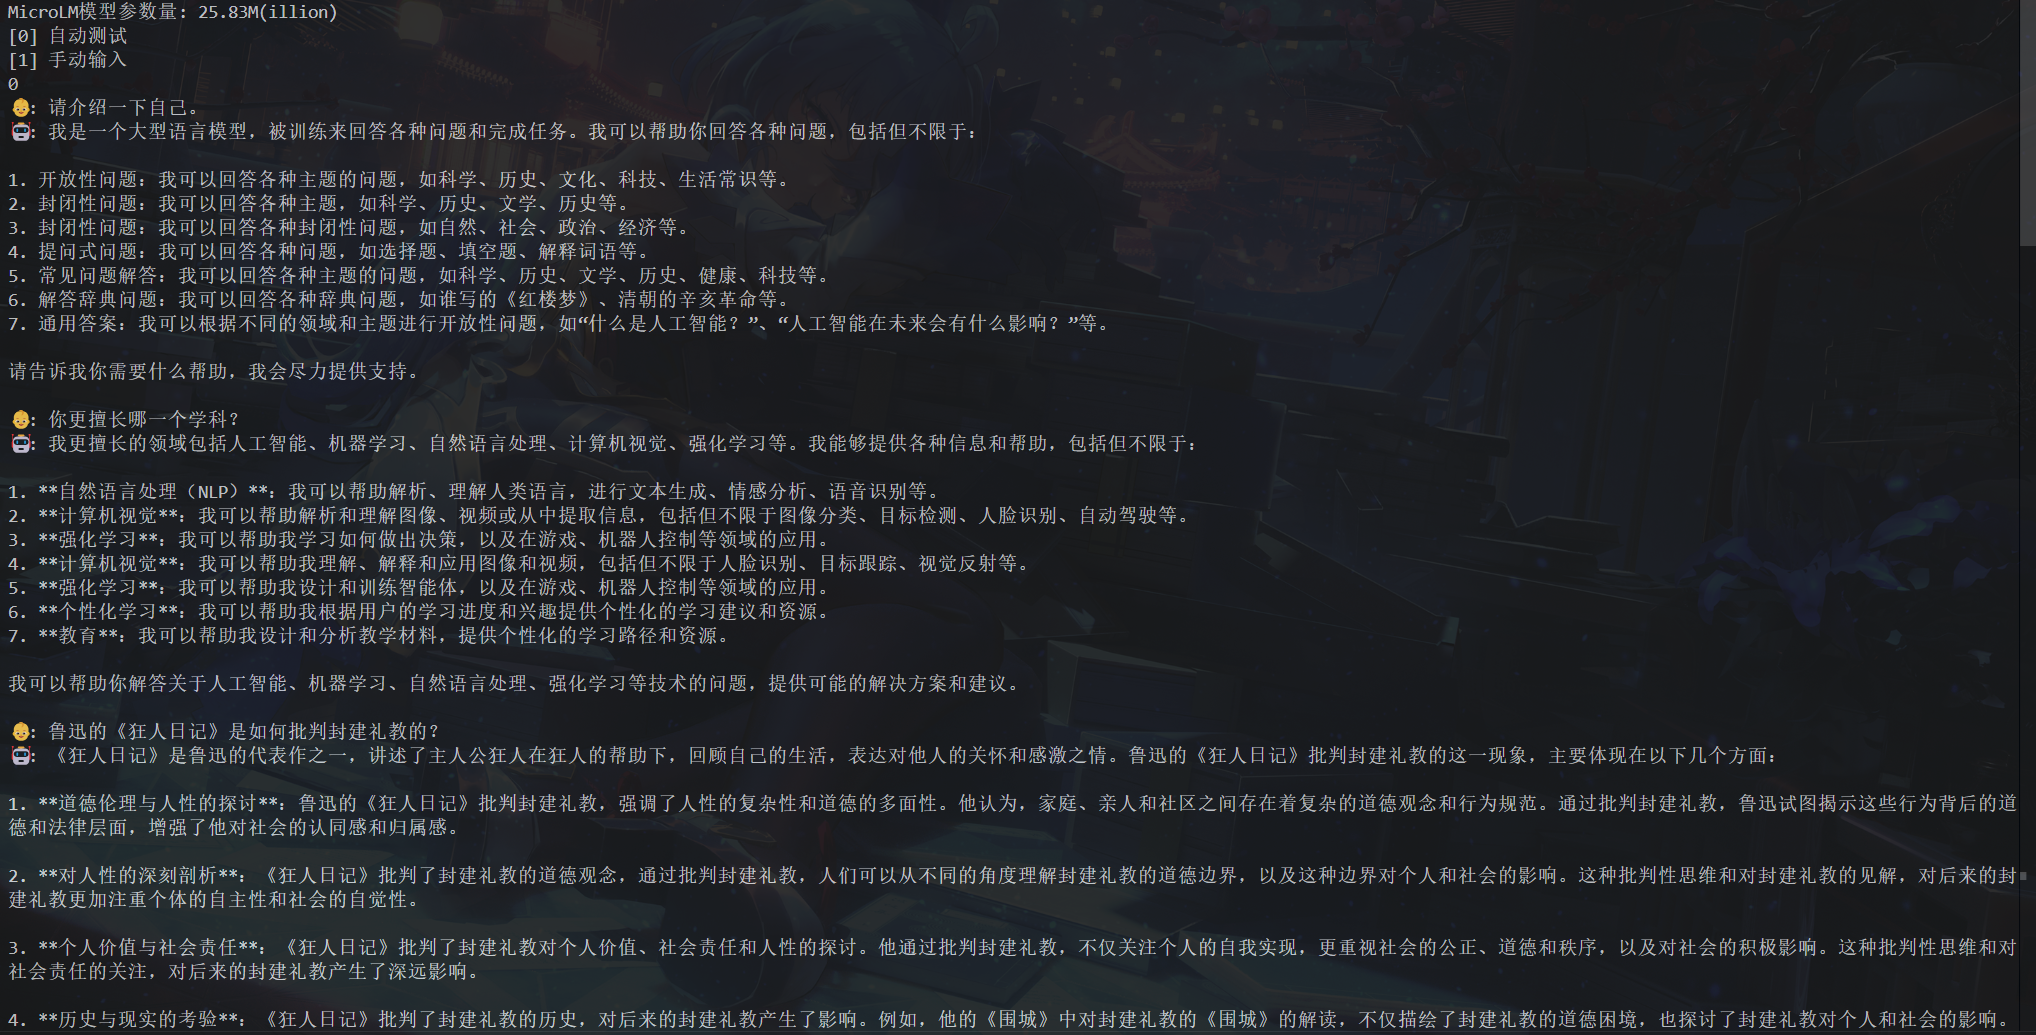
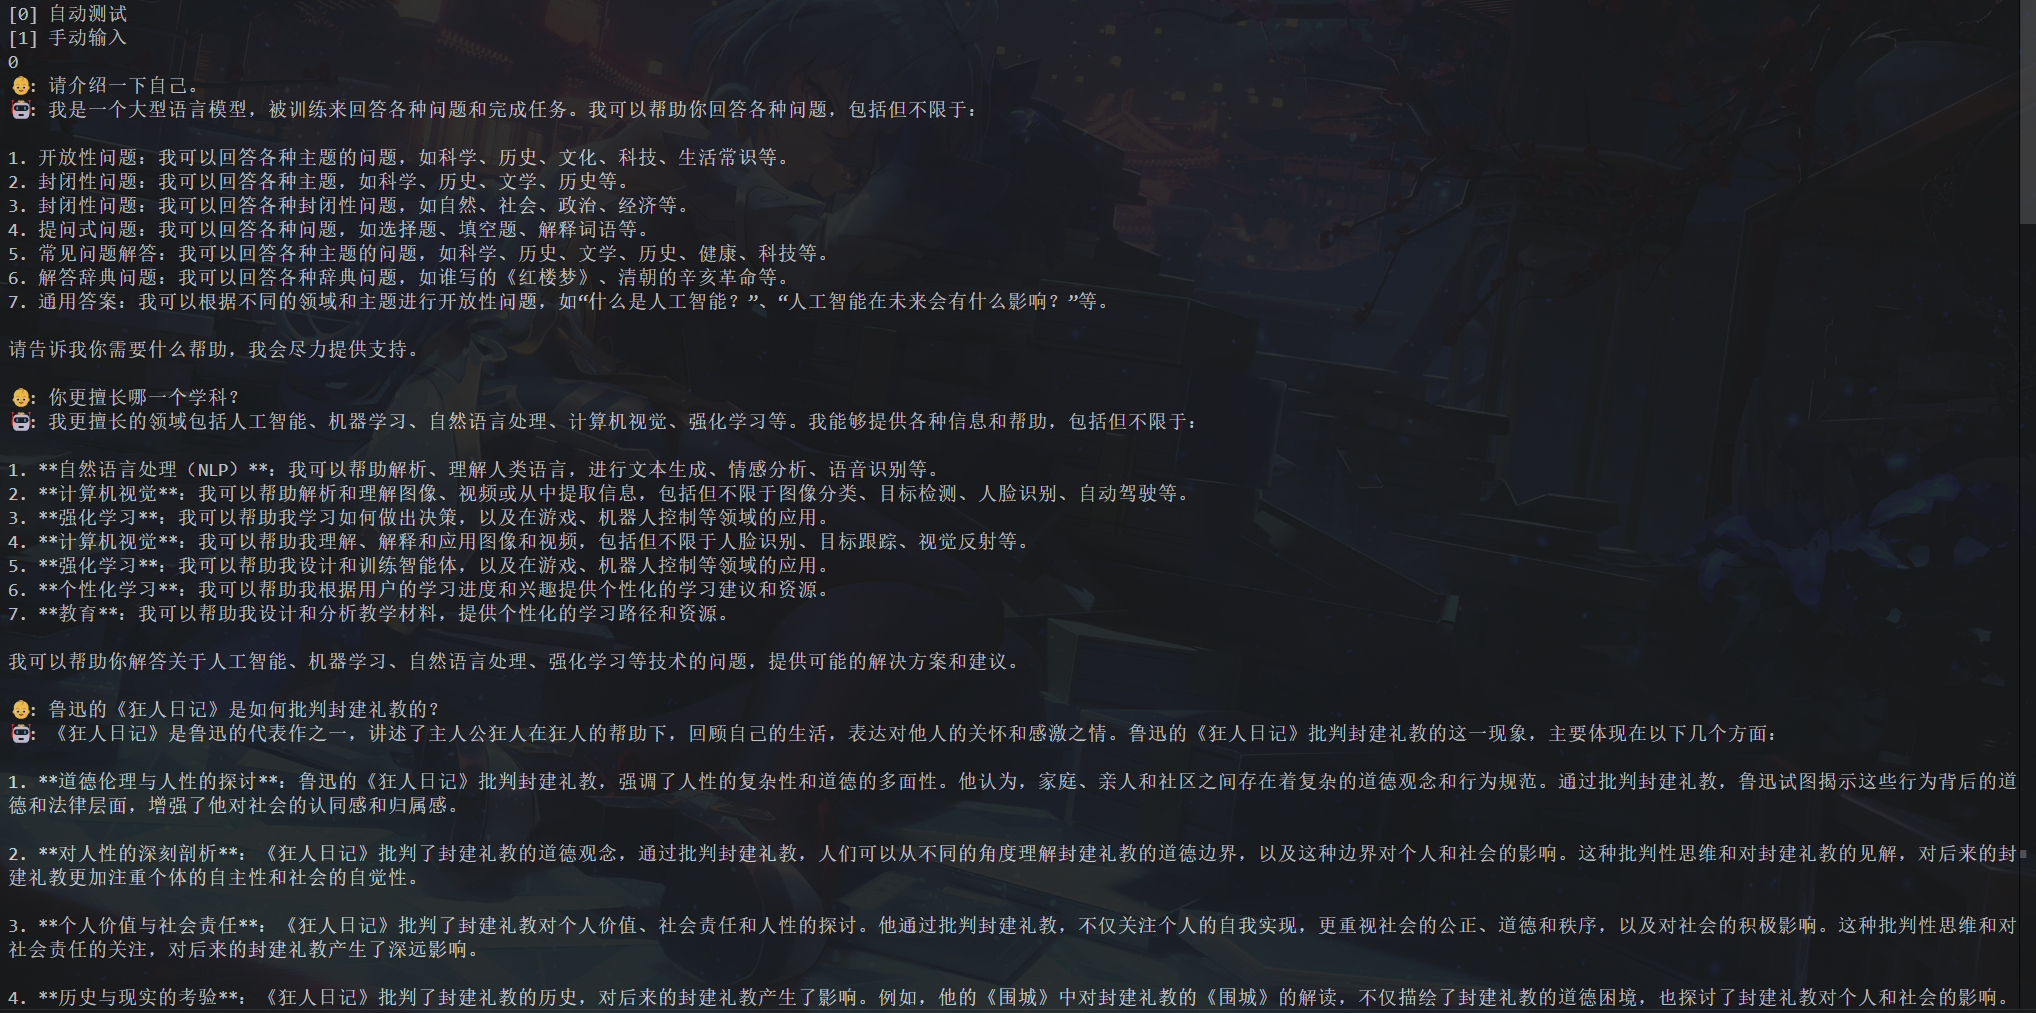
在markdown中添加了一些训练后的损失曲线和训练后的效果展示

diff --git a/6-LoRA.py b/6-LoRA.py
@@ -133,7 +133,7 @@ def train_epoch(epoch, wandb, iter_per_epoch):
         if (step + 1) % args.save_interval == 0 and (not ddp or distributed.get_rank() == 0):
             model.eval()
             # 【区别1】只保存LoRA权重即可
-            save_LoRA(model, f'{args.output_dir}/LoRA/{args.LoRA_name}_{lm_config.dim}.pth')
+            save_LoRA(model, f'{args.output_dir}/{args.LoRA_name}_{lm_config.dim}.pth')
             model.train()
 
 if __name__ == '__main__':
@@ -141,7 +141,7 @@ if __name__ == '__main__':
     torch.manual_seed(2004)
 
     parser = argparse.ArgumentParser("MicroLM SFT with LoRA")
-    parser.add_argument('--epochs', type=int, default=20, help='Number of epochs to train')                             # 训练的轮数
+    parser.add_argument('--epochs', type=int, default=50, help='Number of epochs to train')                             # 训练的轮数
     parser.add_argument('--num_workers', type=int, default=1, help='Number of workers for data loader')                 # 数据加载器的工作线程数
     parser.add_argument('--batch_size', type=int, default=16, help='Batch size')                                        # batch size，如果过大，可能会导致内存不足
     parser.add_argument('--learning_rate', type=float, default=5e-5, help='Learning rate')                              # 学习率，MiniMind设置的是5e-4
@@ -150,8 +150,8 @@ if __name__ == '__main__':
     parser.add_argument("--accumulation_steps", type=int, default=1)                                                    # 梯度累积步数
     parser.add_argument("--grad_clip", type=float, default=1.0)                                                         # 梯度裁剪
     parser.add_argument('--max_seq_len', type=int, default=512, help='Max sequence length')                             # 最大序列长度
-    parser.add_argument('--data_path', type=str, default='./model/dataset/LoRA_identity.jsonl', help='Data path')       # 数据集的路径
-    parser.add_argument("--LoRA_name", type=str, default="LoRA_identity", help="根据任务保存成LoRA_(英文/医学/心理...)")  # 保存的LoRA模型的名字
+    parser.add_argument('--data_path', type=str, default='./model/dataset/LoRA_medical.jsonl', help='Data path')       # 数据集的路径
+    parser.add_argument("--LoRA_name", type=str, default="LoRA_medical", help="根据任务保存成LoRA_(英文/医学/心理...)")  # 保存的LoRA模型的名字
     parser.add_argument("--wandb_project", type=str, default="MicroLM-Implementation-LoRA-SFT")                         # wandb的项目名
 
     parser.add_argument('--use_moe', action='store_true', help='Whether to use Mixture of Experts')                     # 是否使用Mixture of Experts

diff --git a/eval_model.py b/eval_model.py
@@ -46,7 +46,7 @@ def init_model(args):
         model = AutoModelForCausalLM.from_pretrained(transformers_model_path, trust_remote_code=True)
     
     # 输出模型参数量
-    print(f'MicroLM模型参数量: {sum(p.numel() for p in model.parameters() if p.requires_grad) / 1e6:.2f}M(illion)')
+    print(f'MicroLM模型参数量: {sum(p.numel() for p in model.parameters() if p.requires_grad) / 1e6:.2f}(Million)')
     return model.eval().to(args.device), tokenizer
 
 
